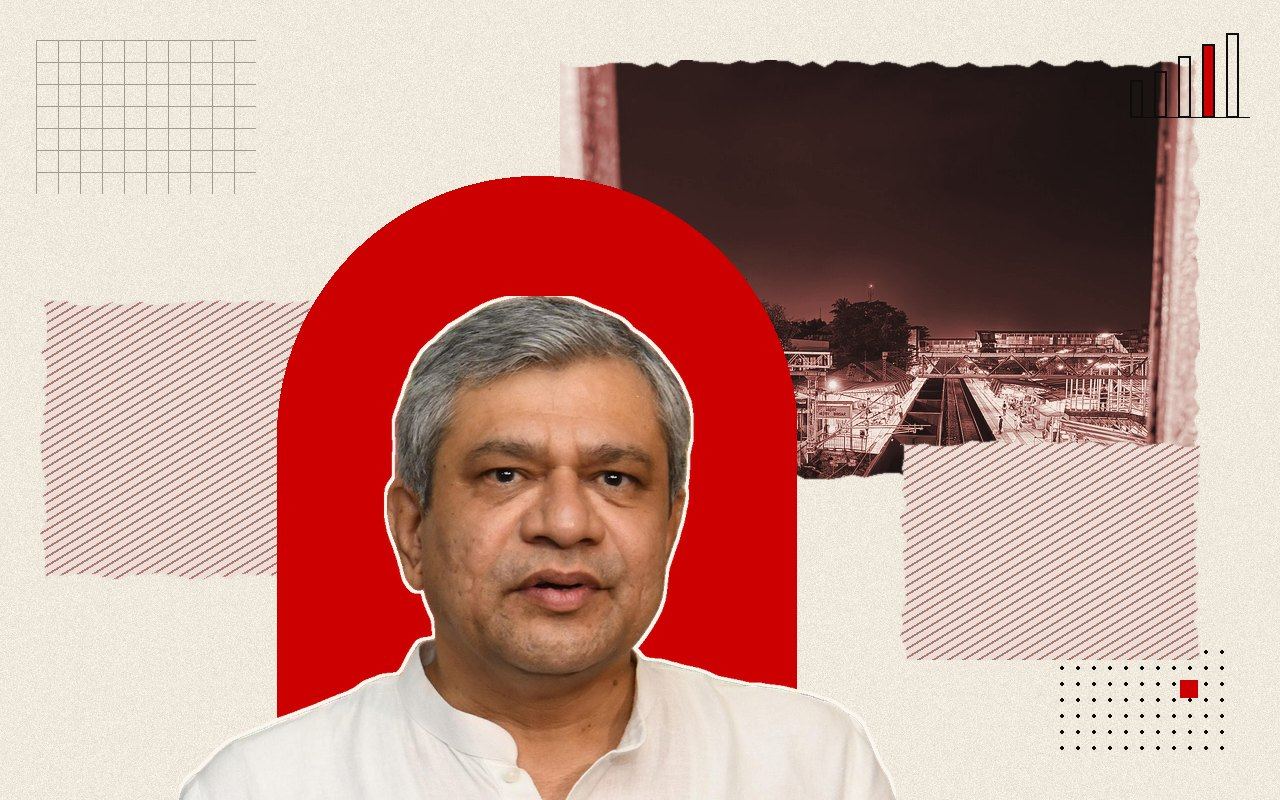
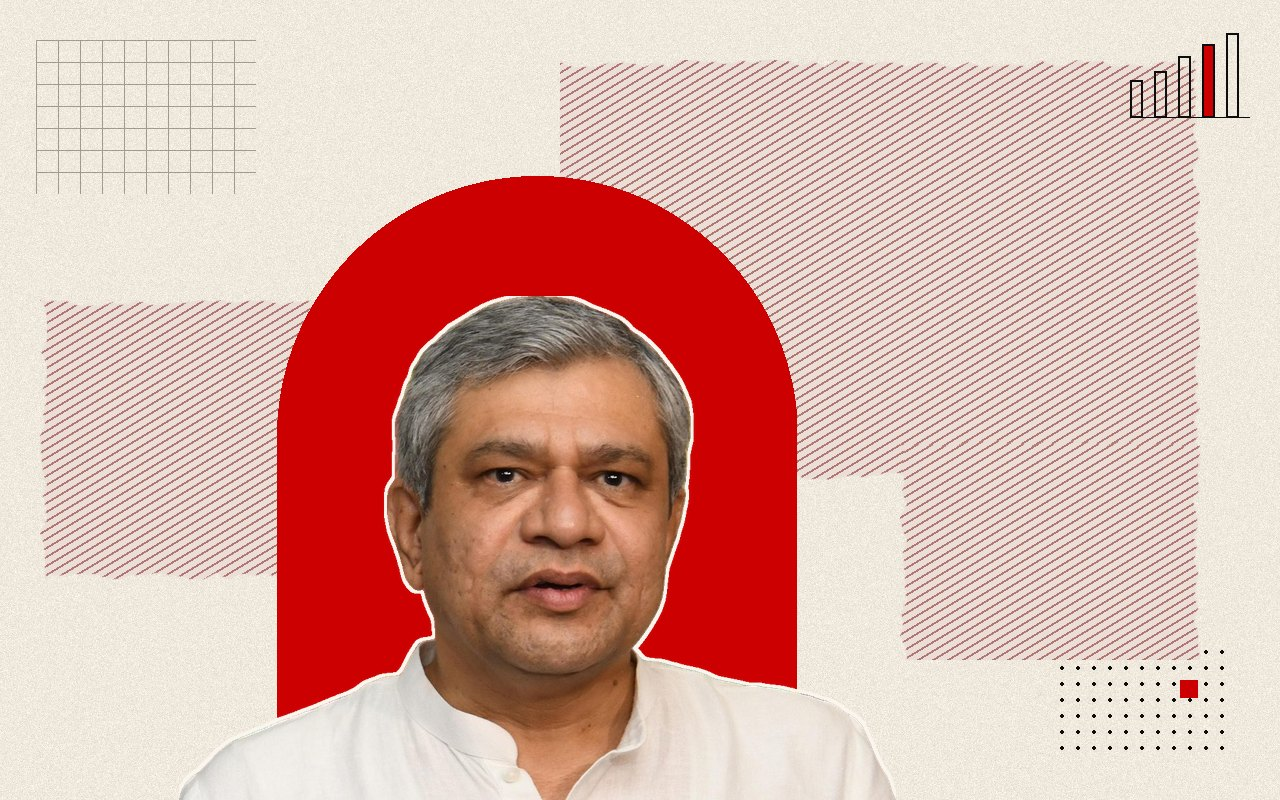
Hourly 08:00 IST: collage fix for the Cabinet postal scheme story
The first collage of cabinet-postal-operations-scheme-1141-crore-india-post had a railway station tile from a related logistics story. Related link swapped for the small-savings explainer (India Post) and the collage remade; it now shows Ashwini Vaishnaw with no unrelated tile.

Claude-Session: https://claude.ai/code/session_01C3zerW2s3kX3gnBpYYKevc

Changed region(s): [[0.4375, 0.0625, 0.9375, 0.625]]

diff --git a/content/hi/news/cabinet-postal-operations-scheme-1141-crore-india-post.md b/content/hi/news/cabinet-postal-operations-scheme-1141-crore-india-post.md
@@ -21,7 +21,7 @@ hero:
   alt: "केंद्रीय मंत्री अश्विनी वैष्णव"
   overlay:
     value: "डाकघर के लिए ₹1,141 करोड़"
-related: [cabinet-cie-manufacturing-scheme-11000-crore-heavy-industries, cabinet-approves-integrated-transport-logistics-authority]
+related: [ppf-sukanya-scss-nsc-interest-rates-october-december-2026, cabinet-cie-manufacturing-scheme-11000-crore-heavy-industries]
 seo:
   title: "कैबिनेट ने डाक संचालन योजना बढ़ाई, ₹1,141 करोड़"
   description: "केंद्रीय कैबिनेट ने इंडिया पोस्ट की डाक संचालन योजना के लिए 2030-31 तक ₹1,141 करोड़ मंजूर किए: ग्रामीण डाकघर, पार्सल हब और स्मार्ट लेटर बॉक्स।"

diff --git a/content/en/news/cabinet-postal-operations-scheme-1141-crore-india-post.md b/content/en/news/cabinet-postal-operations-scheme-1141-crore-india-post.md
@@ -20,7 +20,7 @@ hero:
   alt: "Union Minister Ashwini Vaishnaw"
   overlay:
     value: "₹1,141 crore for the post office"
-related: [cabinet-cie-manufacturing-scheme-11000-crore-heavy-industries, cabinet-approves-integrated-transport-logistics-authority]
+related: [ppf-sukanya-scss-nsc-interest-rates-october-december-2026, cabinet-cie-manufacturing-scheme-11000-crore-heavy-industries]
 seo:
   title: "Cabinet extends Postal Operations scheme, ₹1,141 crore"
   description: "The Union Cabinet approved ₹1,141 crore for India Post's Postal Operations scheme to 2030-31: rural post offices, parcel hubs, smart letter boxes and more."
